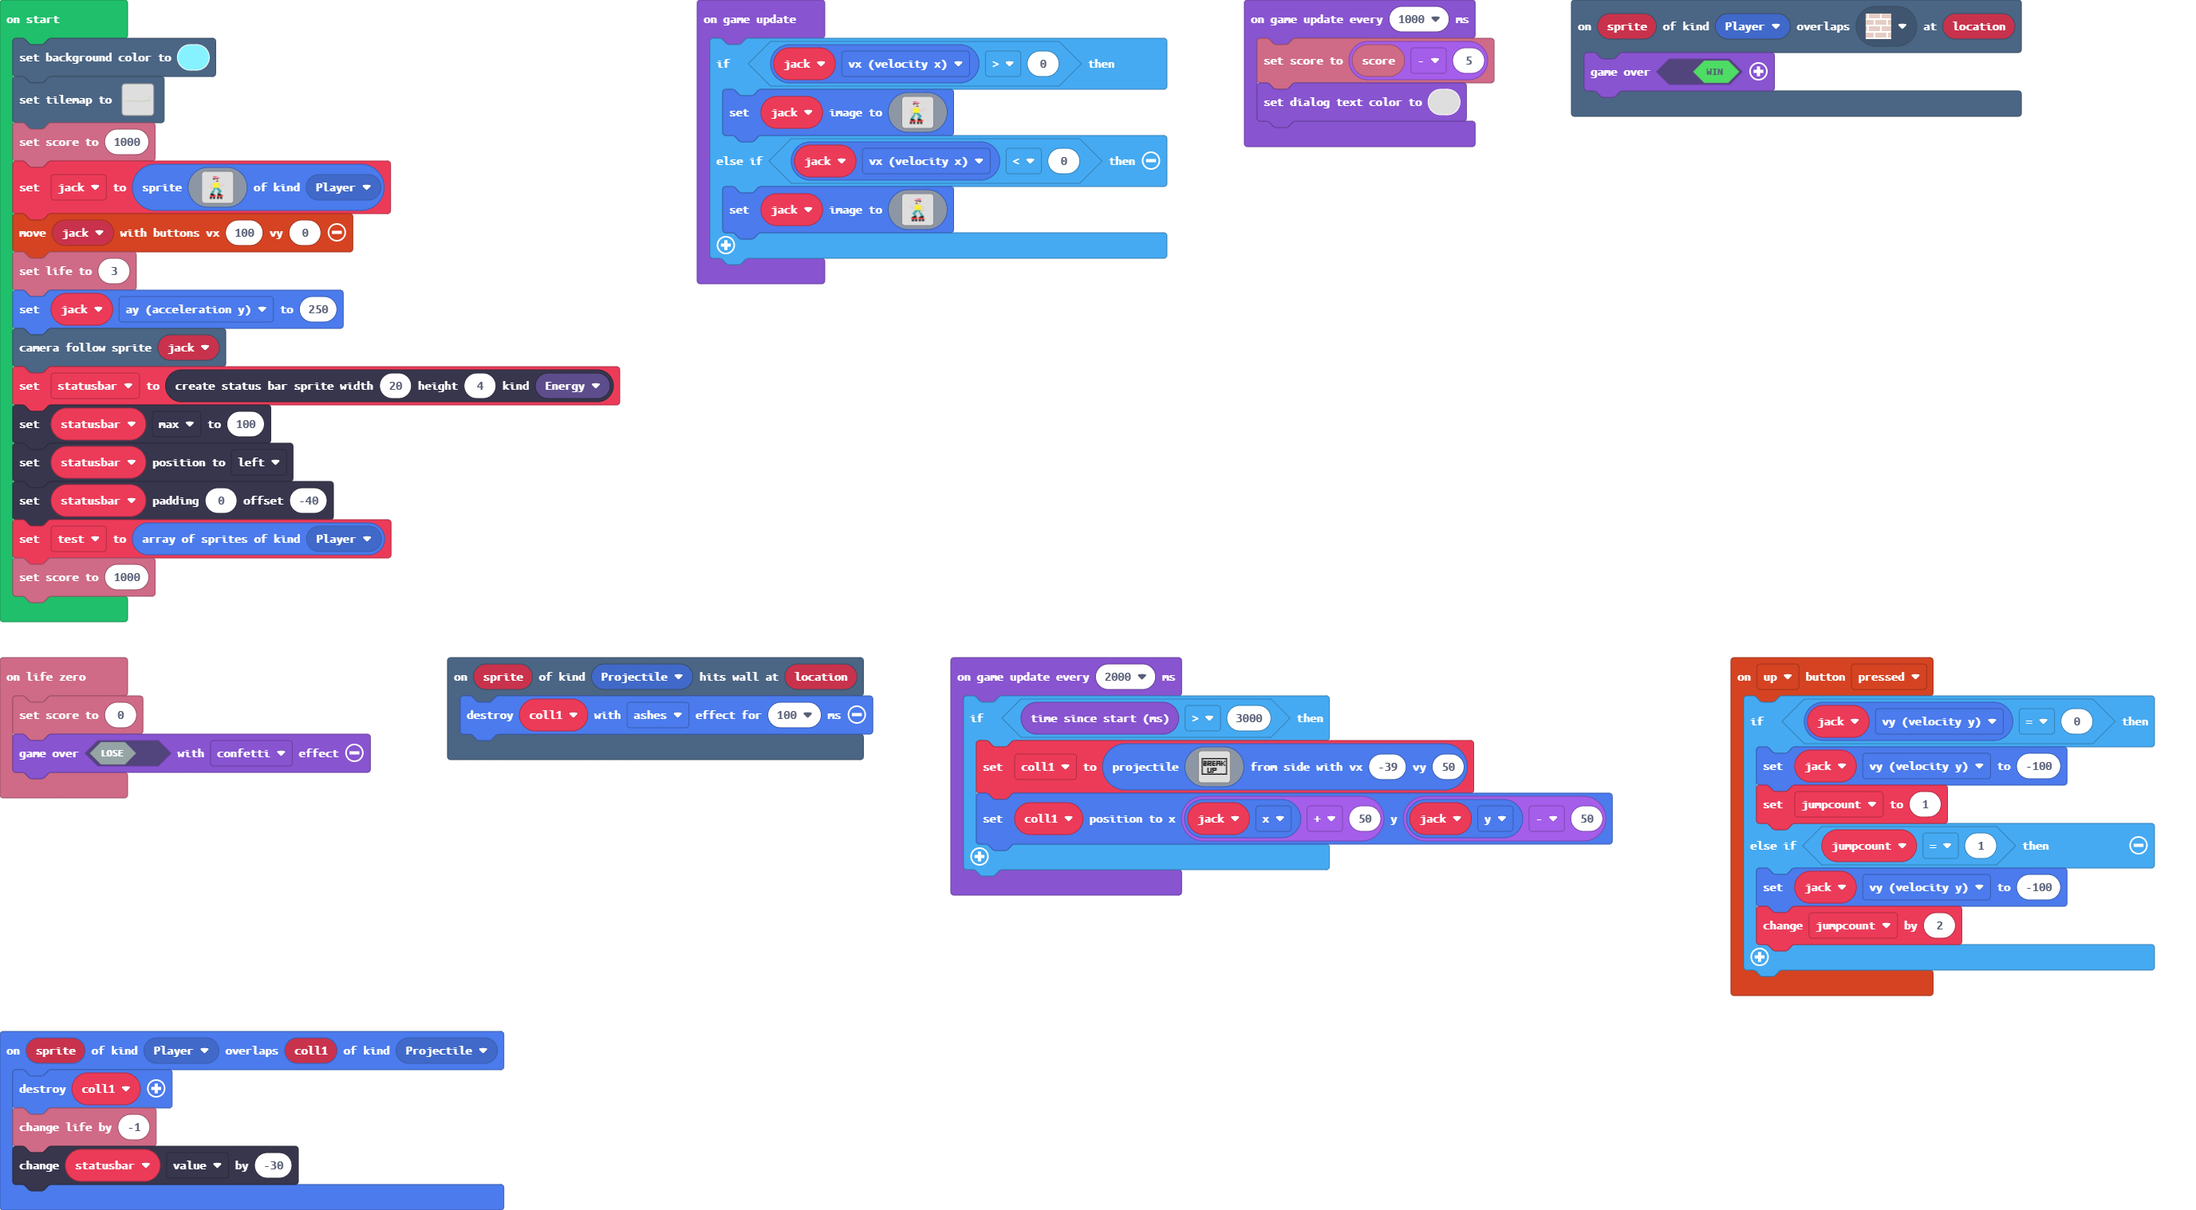
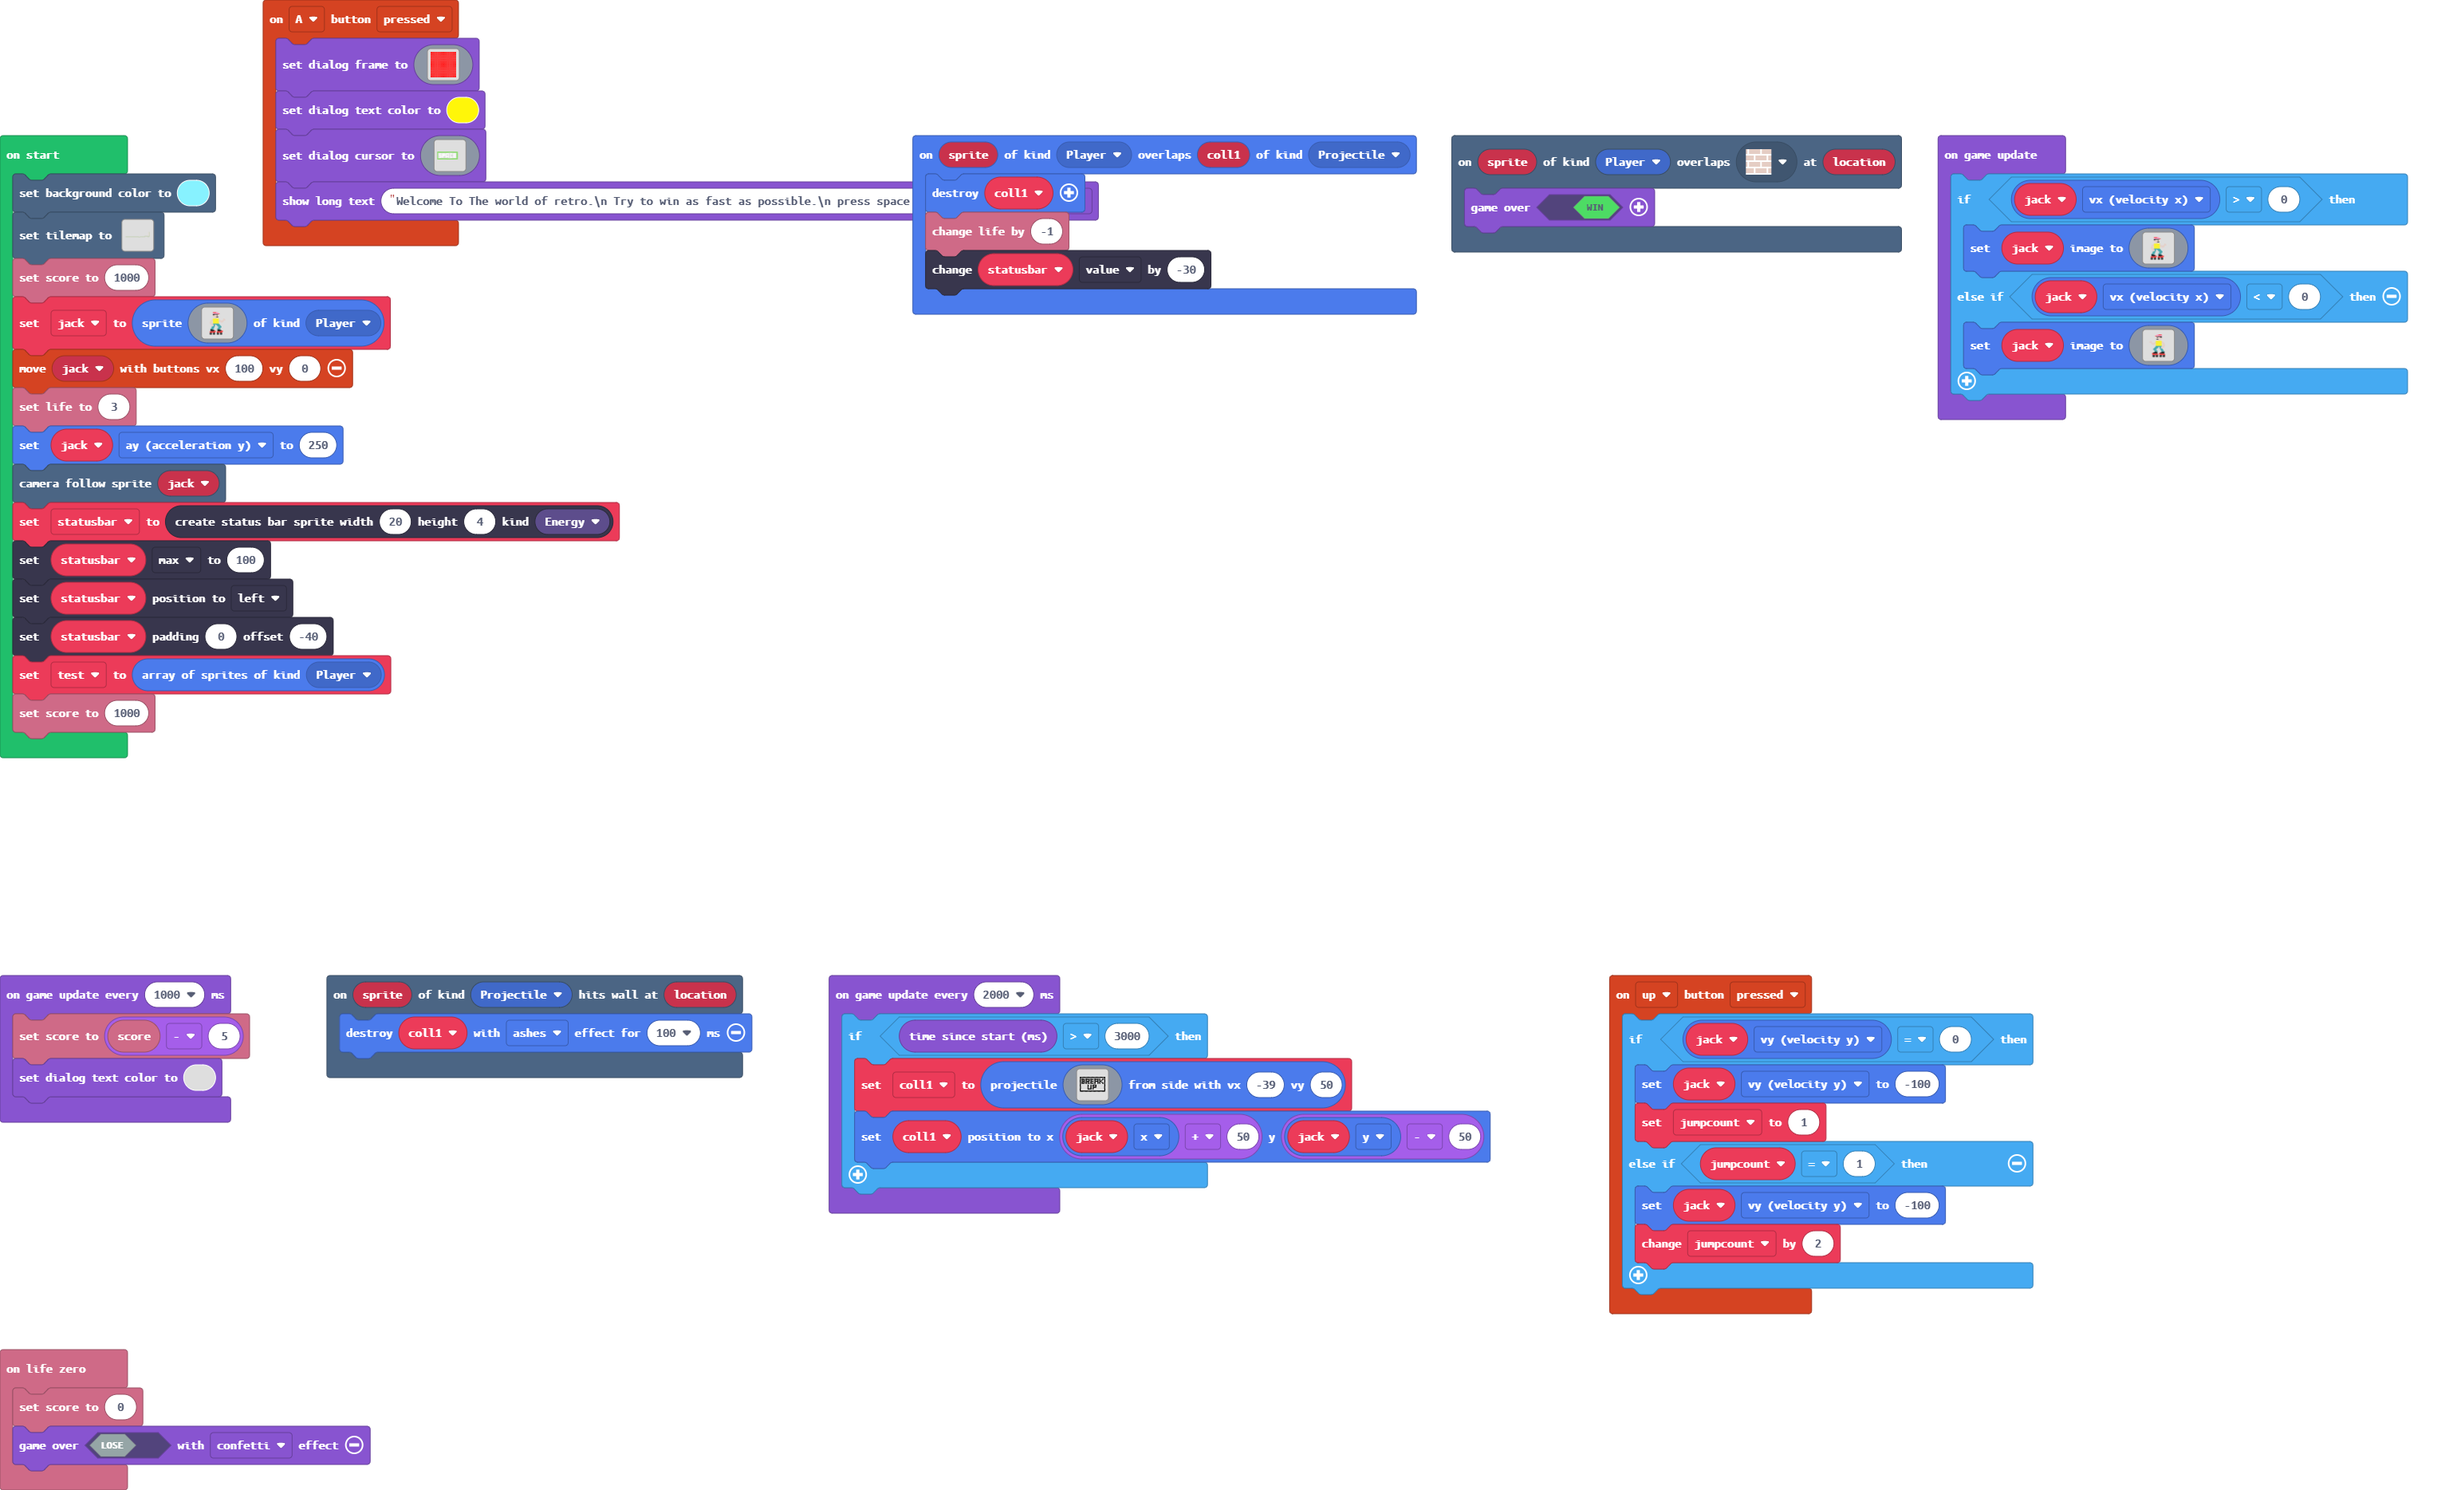
Update main.blocks, main.ts, images.g.jres, images.g.ts, main.py

diff --git a/images.g.ts b/images.g.ts
@@ -194,26 +194,6 @@ dddd....555555ddd.............
 ..............................
 ..............................
 `;
-            case "image6":
-            case "image8":return img`
-ffffffffffffffffffffffffff
-f........................f
-f........................f
-f.fff.ffff.fff.ffff.f..f.f
-f.f.f.f..f.f...f..f.f.f..f
-f.fff.ffff.fff.ffff.ff...f
-f.f.f.f.f..f...f..f.f.f..f
-f.fff.f.ff.fff.f..f.f..f.f
-f........................f
-f........................f
-f.....f..f.ffff..........f
-f.....f..f.f..f..........f
-f.....f..f.ffff..........f
-f.....f..f.f.............f
-f.....ffff.f.............f
-f........................f
-ffffffffffffffffffffffffff
-`;
             case "image7":
             case "image9":return img`
 ..............................
@@ -243,6 +223,92 @@ ffffffffffffffffffffffffff
 ..............................
 ..............................
 ..............................
+..............................
+..............................
+..............................
+`;
+            case "image10":return img`
+2 2 2 2 2 2 2 2 2 2 2 2 2 2 2 
+2 2 2 2 2 2 2 2 2 2 2 2 2 2 2 
+2 2 2 2 2 2 2 2 2 2 2 2 2 2 2 
+2 2 2 2 2 2 2 2 2 2 2 2 2 2 2 
+2 2 2 2 2 2 2 2 2 2 2 2 2 2 2 
+2 2 2 2 2 2 2 2 2 2 2 2 2 2 2 
+2 2 2 2 2 2 2 2 2 2 2 2 2 2 2 
+2 2 2 2 2 2 2 2 2 2 2 2 2 2 2 
+2 2 2 2 2 2 2 2 2 2 2 2 2 2 2 
+2 2 2 2 2 2 2 2 2 2 2 2 2 2 2 
+2 2 2 2 2 2 2 2 2 2 2 2 2 2 2 
+2 2 2 2 2 2 2 2 2 2 2 2 2 2 2 
+2 2 2 2 2 2 2 2 2 2 2 2 2 2 2 
+2 2 2 2 2 2 2 2 2 2 2 2 2 2 2 
+2 2 2 2 2 2 2 2 2 2 2 2 2 2 2 
+`;
+            case "image11":return img`
+..............................
+..............................
+..............................
+777777777777777777777777......
+7......................7......
+7.111.111.1111.111.111.7......
+7.1...1.1.1..1.1...1...7......
+7.111.111.1..1.1...111.7......
+7...1.1...1111.1...1...7......
+7.111.1...1..1.111.111.7......
+7......................7......
+777777777777777777777777......
+..............................
+..............................
+..............................
+`;
+            case "image6":
+            case "image8":return img`
+ffffffffffffffffffffffffff
+f........................f
+f.fff.ffff.fff.ffff.f..f.f
+f.f.f.f..f.f...f..f.f.f..f
+f.fff.ffff.fff.ffff.ff...f
+f.f.f.f.f..f...f..f.f.f..f
+f.fff.f.ff.fff.f..f.f..f.f
+f........................f
+f.......f..f.ffff........f
+f.......f..f.f..f........f
+f.......f..f.ffff........f
+f.......f..f.f...........f
+f.......ffff.f...........f
+f........................f
+ffffffffffffffffffffffffff
+`;
+            case "image8":return img`
+2 2 2 2 2 2 2 2 2 2 2 2 2 2 2 
+2 2 2 2 2 2 2 2 2 2 2 2 2 2 2 
+2 2 2 2 2 2 2 2 2 2 2 2 2 2 2 
+2 2 2 2 2 2 2 2 2 2 2 2 2 2 2 
+2 2 2 2 2 2 2 2 2 2 2 2 2 2 2 
+2 2 2 2 2 2 2 2 2 2 2 2 2 2 2 
+2 2 2 2 2 2 2 2 2 2 2 2 2 2 2 
+2 2 2 2 2 2 2 2 2 2 2 2 2 2 2 
+2 2 2 2 2 2 2 2 2 2 2 2 2 2 2 
+2 2 2 2 2 2 2 2 2 2 2 2 2 2 2 
+2 2 2 2 2 2 2 2 2 2 2 2 2 2 2 
+2 2 2 2 2 2 2 2 2 2 2 2 2 2 2 
+2 2 2 2 2 2 2 2 2 2 2 2 2 2 2 
+2 2 2 2 2 2 2 2 2 2 2 2 2 2 2 
+2 2 2 2 2 2 2 2 2 2 2 2 2 2 2 
+`;
+            case "image9":return img`
+..............................
+..............................
+..............................
+777777777777777777777777......
+7......................7......
+7.111.111.1111.111.111.7......
+7.1...1.1.1..1.1...1...7......
+7.111.111.1..1.1...111.7......
+7...1.1...1111.1...1...7......
+7.111.1...1..1.111.111.7......
+7......................7......
+777777777777777777777777......
 ..............................
 ..............................
 ..............................

diff --git a/main.ts b/main.ts
@@ -12,6 +12,44 @@ sprites.onOverlap(SpriteKind.Player, SpriteKind.Projectile, function (sprite, co
     info.changeLifeBy(-1)
     statusbar.value += -30
 })
+controller.A.onEvent(ControllerButtonEvent.Pressed, function () {
+    game.setDialogFrame(img`
+        2 2 2 2 2 2 2 2 2 2 2 2 2 2 2 
+        2 2 2 2 2 2 2 2 2 2 2 2 2 2 2 
+        2 2 2 2 2 2 2 2 2 2 2 2 2 2 2 
+        2 2 2 2 2 2 2 2 2 2 2 2 2 2 2 
+        2 2 2 2 2 2 2 2 2 2 2 2 2 2 2 
+        2 2 2 2 2 2 2 2 2 2 2 2 2 2 2 
+        2 2 2 2 2 2 2 2 2 2 2 2 2 2 2 
+        2 2 2 2 2 2 2 2 2 2 2 2 2 2 2 
+        2 2 2 2 2 2 2 2 2 2 2 2 2 2 2 
+        2 2 2 2 2 2 2 2 2 2 2 2 2 2 2 
+        2 2 2 2 2 2 2 2 2 2 2 2 2 2 2 
+        2 2 2 2 2 2 2 2 2 2 2 2 2 2 2 
+        2 2 2 2 2 2 2 2 2 2 2 2 2 2 2 
+        2 2 2 2 2 2 2 2 2 2 2 2 2 2 2 
+        2 2 2 2 2 2 2 2 2 2 2 2 2 2 2 
+        `)
+    game.setDialogTextColor(5)
+    game.setDialogCursor(img`
+        ..............................
+        ..............................
+        ..............................
+        777777777777777777777777......
+        7......................7......
+        7.111.111.1111.111.111.7......
+        7.1...1.1.1..1.1...1...7......
+        7.111.111.1..1.1...111.7......
+        7...1.1...1111.1...1...7......
+        7.111.1...1..1.111.111.7......
+        7......................7......
+        777777777777777777777777......
+        ..............................
+        ..............................
+        ..............................
+        `)
+    game.showLongText("Welcome To The world of retro.\\n Try to win as fast as possible.\\n press space to START GAME", DialogLayout.Center)
+})
 scene.onOverlapTile(SpriteKind.Player, sprites.builtin.brick, function (sprite, location) {
     game.over(true)
 })

diff --git a/main.py b/main.py
@@ -11,6 +11,7 @@ controller.up.on_event(ControllerButtonEvent.PRESSED, on_up_pressed)
 def on_on_overlap(sprite, coll1):
     coll1.destroy()
     info.change_life_by(-1)
+    statusbar.value += -30
 sprites.on_overlap(SpriteKind.player, SpriteKind.projectile, on_on_overlap)
 
 def on_overlap_tile(sprite, location):
@@ -28,7 +29,45 @@ scene.on_hit_wall(SpriteKind.projectile, on_hit_wall)
 
 coll1: Sprite = None
 jumpcount = 0
+statusbar: StatusBarSprite = None
 jack: Sprite = None
+game.set_dialog_frame(img("""
+    2 2 2 2 2 2 2 2 2 2 2 2 2 2 2 
+        2 2 2 2 2 2 2 2 2 2 2 2 2 2 2 
+        2 2 2 2 2 2 2 2 2 2 2 2 2 2 2 
+        2 2 2 2 2 2 2 2 2 2 2 2 2 2 2 
+        2 2 2 2 2 2 2 2 2 2 2 2 2 2 2 
+        2 2 2 2 2 2 2 2 2 2 2 2 2 2 2 
+        2 2 2 2 2 2 2 2 2 2 2 2 2 2 2 
+        2 2 2 2 2 2 2 2 2 2 2 2 2 2 2 
+        2 2 2 2 2 2 2 2 2 2 2 2 2 2 2 
+        2 2 2 2 2 2 2 2 2 2 2 2 2 2 2 
+        2 2 2 2 2 2 2 2 2 2 2 2 2 2 2 
+        2 2 2 2 2 2 2 2 2 2 2 2 2 2 2 
+        2 2 2 2 2 2 2 2 2 2 2 2 2 2 2 
+        2 2 2 2 2 2 2 2 2 2 2 2 2 2 2 
+        2 2 2 2 2 2 2 2 2 2 2 2 2 2 2
+"""))
+game.set_dialog_text_color(5)
+game.set_dialog_cursor(img("""
+    ..............................
+        ..............................
+        ..............................
+        777777777777777777777777......
+        7......................7......
+        7.111.111.1111.111.111.7......
+        7.1...1.1.1..1.1...1...7......
+        7.111.111.1..1.1...111.7......
+        7...1.1...1111.1...1...7......
+        7.111.1...1..1.111.111.7......
+        7......................7......
+        777777777777777777777777......
+        ..............................
+        ..............................
+        ..............................
+"""))
+game.show_long_text("Welcome To The world of retro.\\n Try to win as fast as possible.\\n press space to START GAME",
+    DialogLayout.CENTER)
 scene.set_background_color(9)
 tiles.set_tilemap(tilemap("""
     level4
@@ -42,7 +81,7 @@ info.set_life(3)
 jack.ay = 250
 scene.camera_follow_sprite(jack)
 statusbar = statusbars.create(20, 4, StatusBarKind.energy)
-statusbar.value = 10
+statusbar.max = 100
 statusbar.position_direction(CollisionDirection.LEFT)
 statusbar.set_offset_padding(-40, 0)
 test = sprites.all_of_kind(SpriteKind.player)
@@ -63,7 +102,7 @@ def on_update_interval():
     global coll1
     if game.runtime() > 3000:
         coll1 = sprites.create_projectile_from_side(assets.image("""
-            image5
+            image8
         """), -39, 50)
         coll1.set_position(jack.x + 50, jack.y - 50)
 game.on_update_interval(2000, on_update_interval)
